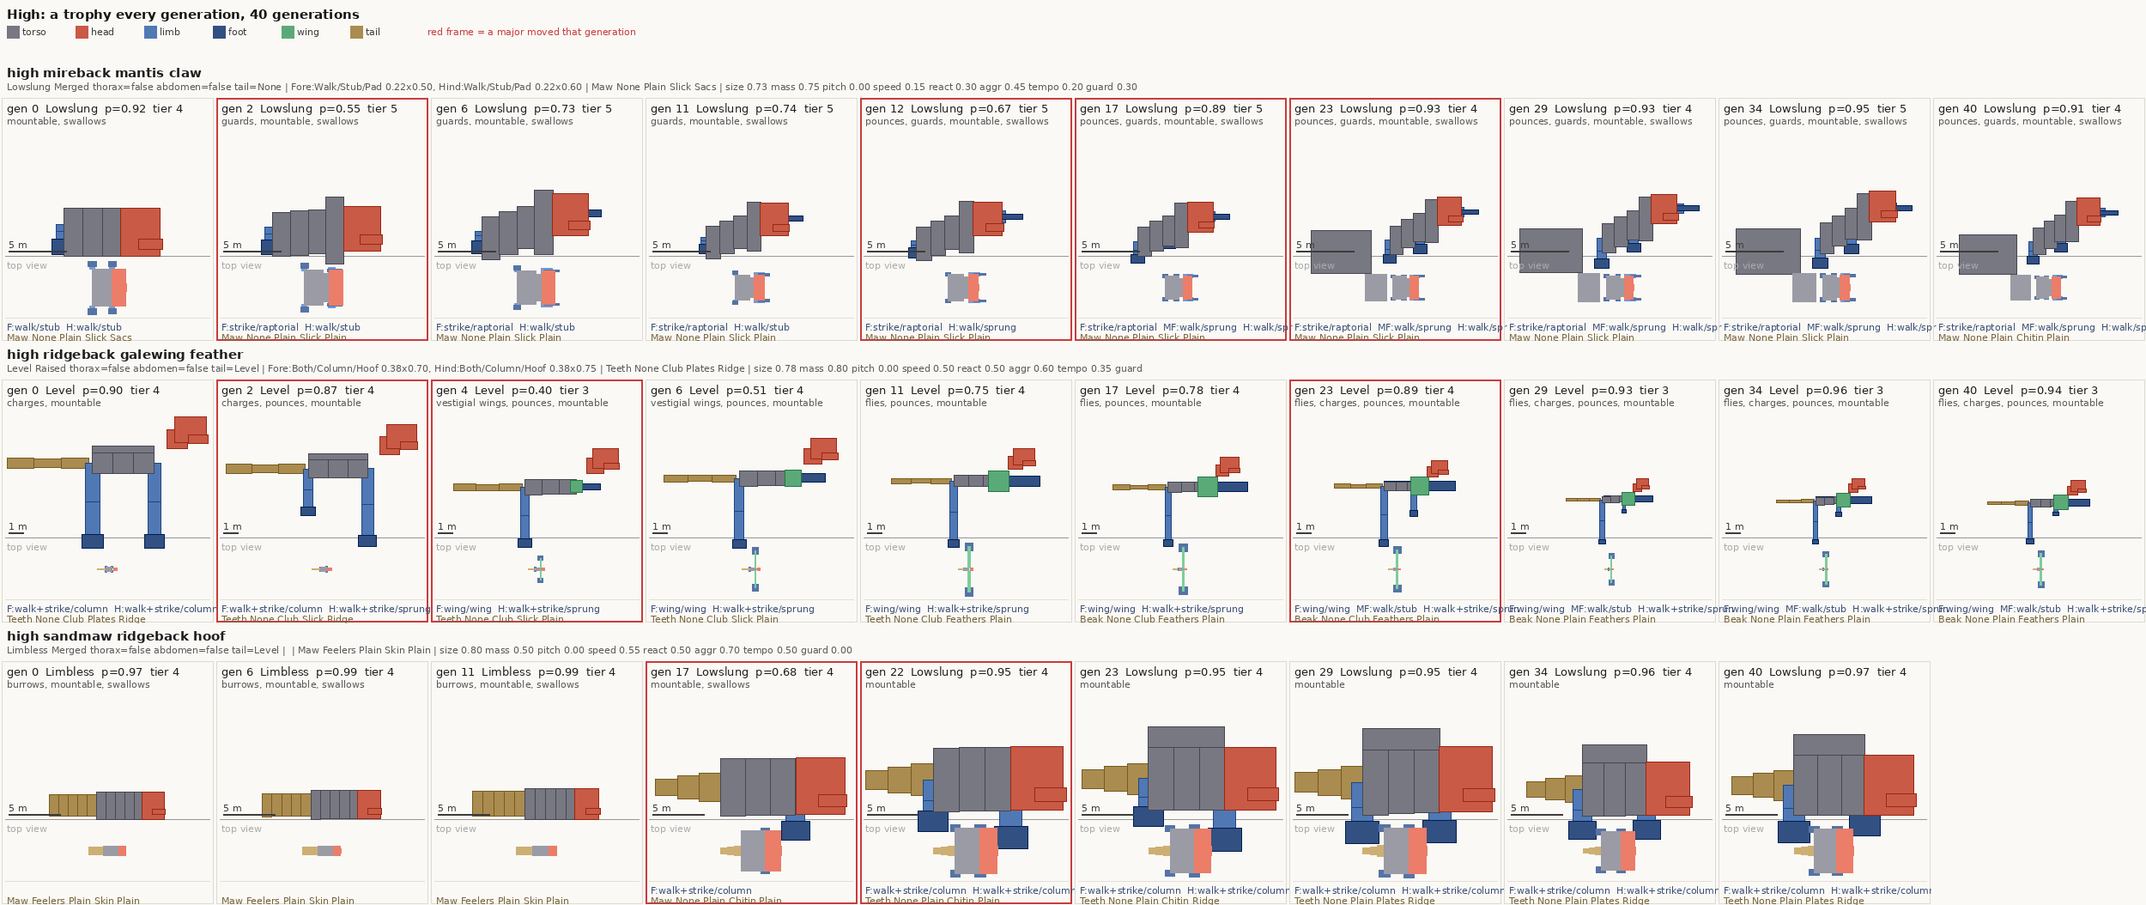
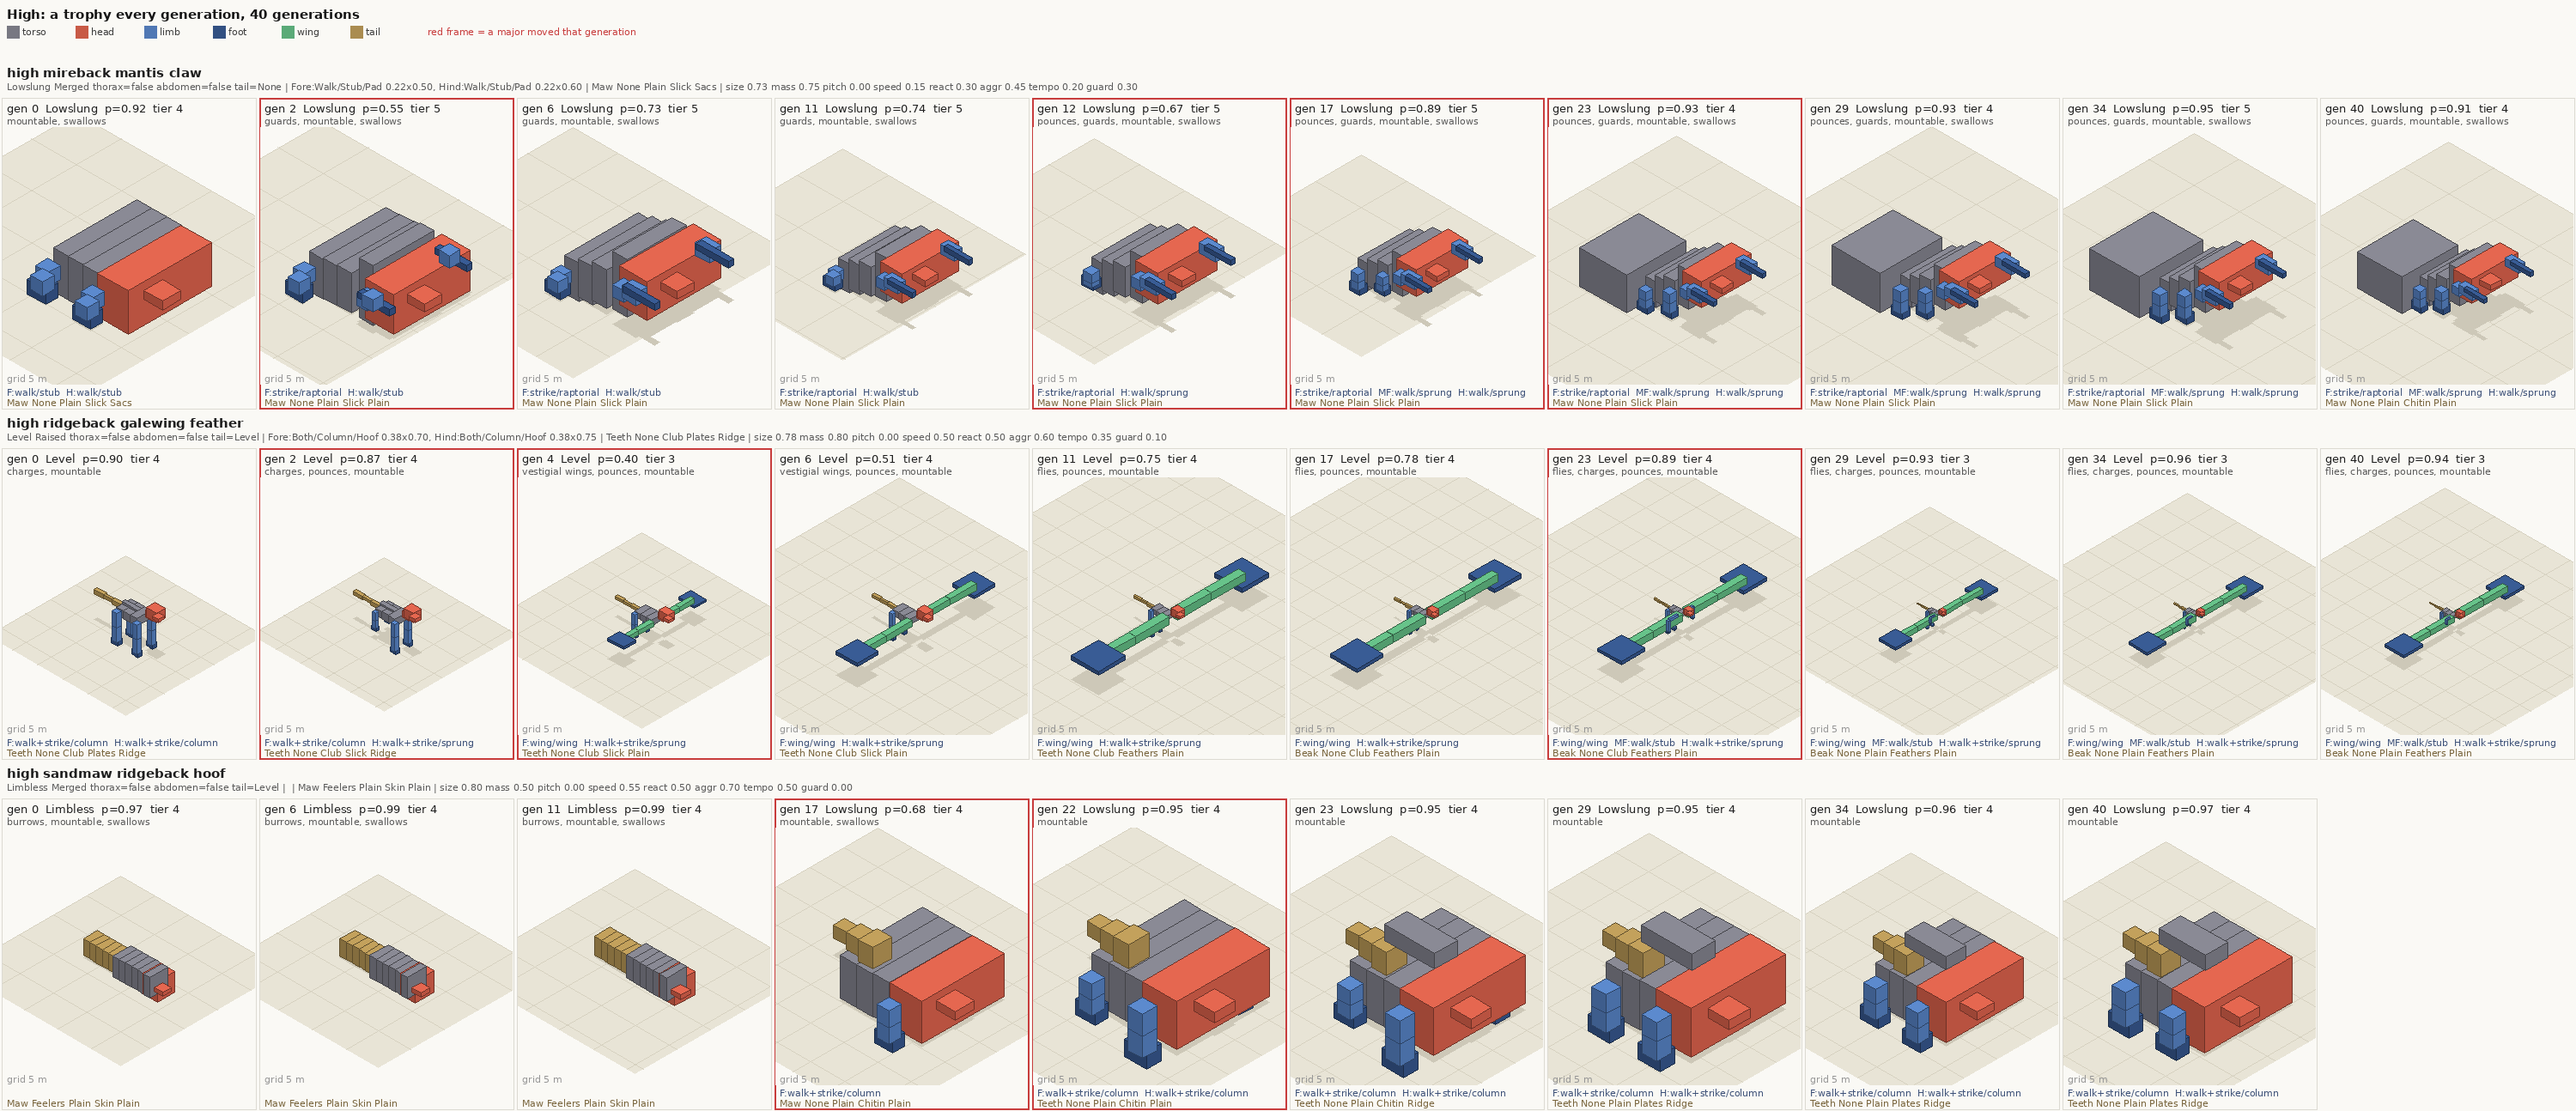
Crossbreeding: the lineage sheets drawn isometric on a gridded ground
Claude-Session: https://claude.ai/code/session_01HFM282c4MbNjdSA4zJH22S

diff --git a/scripts/breed-sheet.py b/scripts/breed-sheet.py
@@ -4,7 +4,7 @@
     python3 scripts/breed-sheet.py <dir with lines/>
 
 One row per lineage, the generations across (always the ones where a major
-moved), each body in side view and top view at one scale down the row. The
+moved), each body isometric on a gridded ground, one scale down the row. The
 file name's first word (low, med, high) picks which sheet it goes on. The
 sheets in docs/design/gallery/breed/ were made this way."""
 import sys, os, glob
@@ -88,59 +88,117 @@ def short_limbs(limbs):
     return "  ".join(out)
 
 
-def draw_strip(name, gens, cell_w=250, side_h=150, top_h=70):
+import math
+C30 = math.cos(math.radians(30))
+S30 = math.sin(math.radians(30))
+
+
+def iso(x, y, z):
+    """World (x along the body, y up, z across) to the picture plane, metres."""
+    return (x - z) * C30, (x + z) * S30 - y
+
+
+def shade(col, k):
+    return tuple(max(0, min(255, int(c * k))) for c in col)
+
+
+def draw_box(d, box, col, origin, scale):
+    """A cuboid as its three visible faces: top, the +x end, the +z side."""
+    x0, y0, x1, y1, z0, z1 = box
+    ox, oy = origin
+
+    def P(x, y, z):
+        px, py = iso(x, y, z)
+        return (ox + px * scale, oy + py * scale)
+
+    top = [P(x0, y1, z0), P(x1, y1, z0), P(x1, y1, z1), P(x0, y1, z1)]
+    front = [P(x1, y0, z0), P(x1, y0, z1), P(x1, y1, z1), P(x1, y1, z0)]
+    side = [P(x0, y0, z1), P(x1, y0, z1), P(x1, y1, z1), P(x0, y1, z1)]
+    edge = shade(col, 0.55)
+    d.polygon(side, fill=shade(col, 0.78), outline=edge)
+    d.polygon(front, fill=shade(col, 0.92), outline=edge)
+    d.polygon(top, fill=shade(col, 1.15), outline=edge)
+
+
+def draw_ground(d, origin, scale, extent, step):
+    ox, oy = origin
+    lo = -extent
+    hi = extent
+
+    def P(x, z):
+        px, py = iso(x, 0, z)
+        return (ox + px * scale, oy + py * scale)
+
+    d.polygon([P(lo, lo), P(hi, lo), P(hi, hi), P(lo, hi)], fill=(232, 228, 214))
+    n = int((hi - lo) / step)
+    for i in range(n + 1):
+        v = lo + i * step
+        d.line([P(v, lo), P(v, hi)], fill=(214, 209, 192))
+        d.line([P(lo, v), P(hi, v)], fill=(214, 209, 192))
+
+
+def draw_strip(name, gens, cell_w=300, cell_h=300):
     frames, moved = pick_frames(gens)
-    xs = [x for i in frames for (_, _, x0, _, x1, _, _, _) in gens[i]["parts"] for x in (x0, x1)]
-    span = max(xs) - min(xs)
-    tallest = max(y1 for i in frames for (_, _, _, _, _, y1, _, _) in gens[i]["parts"])
-    widest = max(z1 - z0 for i in frames for (_, _, _, _, _, _, z0, z1) in gens[i]["parts"])
-    zspan = max(max(z1 for (_, _, _, _, _, _, _, z1) in gens[i]["parts"]) -
-                min(z0 for (_, _, _, _, _, _, z0, _) in gens[i]["parts"]) for i in frames)
-    scale = min((cell_w - 16) / max(span, 1.0), (side_h - 8) / max(tallest, 1.0))
-    tscale = min(scale, (top_h - 8) / max(zspan, 1.0))
+    # One scale for the row, from the largest picture any frame makes.
+    biggest = 1.0
+    for i in frames:
+        pts = []
+        for (_, _, x0, y0, x1, y1, z0, z1) in gens[i]["parts"]:
+            for x in (x0, x1):
+                for y in (0, y0, y1):
+                    for z in (z0, z1):
+                        pts.append(iso(x, y, z))
+        w = max(p[0] for p in pts) - min(p[0] for p in pts)
+        h = max(p[1] for p in pts) - min(p[1] for p in pts)
+        biggest = max(biggest, w, h)
+    scale = (min(cell_w, cell_h) - 70) / biggest
+    row_extent = max(max(x1 for (_, _, _, _, x1, _, _, _) in gens[i]["parts"]) -
+                     min(x0 for (_, _, x0, _, _, _, _, _) in gens[i]["parts"]) for i in frames)
+    step = 5.0 if row_extent > 12 else 1.0
     head_h = 34
     foot_h = 30
-    cell_h = head_h + side_h + top_h + foot_h
+    total_h = head_h + cell_h + foot_h
     W = cell_w * len(frames)
-    H = cell_h + 44
+    H = total_h + 44
     im = Image.new("RGB", (W, H), BG)
     d = ImageDraw.Draw(im)
     d.text((8, 6), name.replace("_", " "), fill=(30, 30, 30), font=BOLD)
-    d.text((8, 24), gens[0]["desc"][:230], fill=(90, 90, 90), font=SMALL)
-    order = {"tail": 0, "limb": 1, "foot": 1, "torso": 2, "wing": 3, "head": 4}
+    d.text((8, 24), gens[0]["desc"][:260], fill=(90, 90, 90), font=SMALL)
     for k, i in enumerate(frames):
         g = gens[i]
         ox = k * cell_w
         top = 44
-        ground = top + head_h + side_h
-        tmid = ground + top_h / 2 + 2
         outline = (200, 60, 60) if g["n"] in moved else (220, 218, 210)
-        d.rectangle([ox + 2, top, ox + cell_w - 2, top + cell_h - 2], outline=outline, width=2 if g["n"] in moved else 1)
-        d.line([ox + 6, ground, ox + cell_w - 6, ground], fill=(150, 150, 150))
-        d.line([ox + 6, ground + top_h + 2, ox + cell_w - 6, ground + top_h + 2], fill=(225, 223, 215))
-        px = [x for (_, _, x0, _, x1, _, _, _) in g["parts"] for x in (x0, x1)]
-        cx = (min(px) + max(px)) / 2
-        parts = sorted(g["parts"], key=lambda p: order.get(p[0], 2))
-        for tag, pname, x0, y0, x1, y1, z0, z1 in parts:
-            col = COL.get(tag, (100, 100, 100))
-            edge = tuple(max(0, c - 50) for c in col)
-            X0 = ox + cell_w / 2 + (x0 - cx) * scale
-            X1 = ox + cell_w / 2 + (x1 - cx) * scale
-            d.rectangle([X0, ground - y1 * scale, X1, ground - y0 * scale], fill=col, outline=edge)
-        for tag, pname, x0, y0, x1, y1, z0, z1 in parts:
-            col = tuple(min(255, c + 35) for c in COL.get(tag, (100, 100, 100)))
-            X0 = ox + cell_w / 2 + (x0 - cx) * tscale
-            X1 = ox + cell_w / 2 + (x1 - cx) * tscale
-            d.rectangle([X0, tmid + z0 * tscale, X1, tmid + z1 * tscale], fill=col)
-        bar = 5.0 if span > 14 else 1.0
-        d.line([ox + 10, ground - 6, ox + 10 + bar * scale, ground - 6], fill=(60, 60, 60), width=2)
-        d.text((ox + 10, ground - 20), f"{bar:g} m", fill=(60, 60, 60), font=SMALL)
+        d.rectangle([ox + 2, top, ox + cell_w - 2, top + total_h - 2], outline=outline, width=2 if g["n"] in moved else 1)
+        # the picture: clip to the cell by drawing on a tile and pasting
+        tile = Image.new("RGB", (cell_w - 6, cell_h), BG)
+        td = ImageDraw.Draw(tile)
+        parts = g["parts"]
+        xs = [x for (_, _, x0, _, x1, _, _, _) in parts for x in (x0, x1)]
+        zs = [z for (_, _, _, _, _, _, z0, z1) in parts for z in (z0, z1)]
+        cx = (min(xs) + max(xs)) / 2
+        cz = (min(zs) + max(zs)) / 2
+        ys = max(y1 for (_, _, _, _, _, y1, _, _) in parts)
+        # centre the body's middle, half its height up, in the tile
+        mx, my = iso(cx, ys / 2, cz)
+        origin = (tile.width / 2 - mx * scale, cell_h / 2 - my * scale + 10)
+        extent = max(max(xs) - min(xs), max(zs) - min(zs)) * 0.9 + 2
+        draw_ground(td, (origin[0] - iso(cx, 0, cz)[0] * scale + iso(0, 0, 0)[0], origin[1] - iso(cx, 0, cz)[1] * scale), scale, extent, step)
+        # shadows: each box's footprint on the ground
+        for (_, _, x0, y0, x1, y1, z0, z1) in parts:
+            pts = [iso(x0, 0, z0), iso(x1, 0, z0), iso(x1, 0, z1), iso(x0, 0, z1)]
+            td.polygon([(origin[0] + px * scale, origin[1] + py * scale) for px, py in pts], fill=(205, 200, 184))
+        # the boxes, far to near
+        order = sorted(parts, key=lambda p: (p[2] + p[6] + p[3] * 0.5))
+        for tag, pname, x0, y0, x1, y1, z0, z1 in order:
+            draw_box(td, (x0, y0, x1, y1, z0, z1), COL.get(tag, (100, 100, 100)), origin, scale)
+        im.paste(tile, (ox + 3, top + head_h))
         d.text((ox + 8, top + 4), f"gen {g['n']}  {g['stance']}  p={g['plaus']:.2f}  tier {g['tier']}", fill=(30, 30, 30), font=FONT)
-        d.text((ox + 8, top + 20), g["caps"][:44], fill=(90, 90, 90), font=SMALL)
-        d.text((ox + 8, ground + 4), "top view", fill=(170, 170, 170), font=SMALL)
+        d.text((ox + 8, top + 20), g["caps"][:52], fill=(90, 90, 90), font=SMALL)
+        d.text((ox + 8, top + head_h + cell_h - 14), f"grid {step:g} m", fill=(150, 150, 150), font=SMALL)
         st, limbs, minors = majors(g["desc"])
-        d.text((ox + 8, ground + top_h + 6), short_limbs(limbs)[:46], fill=(60, 80, 120), font=SMALL)
-        d.text((ox + 8, ground + top_h + 18), minors[:46], fill=(120, 100, 60), font=SMALL)
+        d.text((ox + 8, top + head_h + cell_h + 2), short_limbs(limbs)[:56], fill=(60, 80, 120), font=SMALL)
+        d.text((ox + 8, top + head_h + cell_h + 14), minors[:56], fill=(120, 100, 60), font=SMALL)
     return im
 
 

diff --git a/crates/manual/src/lib.rs b/crates/manual/src/lib.rs
@@ -858,7 +858,7 @@ pub const SECTIONS: &[Section] = &[
             ),
             e(
                 "python3 scripts/breed-sheet.py <dir>",
-                "Draw the sheets in docs/design/gallery/breed/ from `breedcheck -- boxes` dumps in <dir>/lines/: one row per lineage, the generations across, each body in side and top view, a red frame where a major moved. Needs Pillow.",
+                "Draw the sheets in docs/design/gallery/breed/ from `breedcheck -- boxes` dumps in <dir>/lines/: one row per lineage, the generations across, each body isometric on a gridded ground, a red frame where a major moved. Needs Pillow.",
             ),
             e(
                 "cargo run -p sim --bin critcheck",

diff --git a/docs/design/gallery/README.md b/docs/design/gallery/README.md
@@ -70,4 +70,4 @@ The plan beside them is `cargo run -p look --example valley`.
 
 ## Crossbreeding lineages (`breed/`)
 
-Nine lineages from `sim::breed` ([exploration/0021](../exploration/0021_crossbreeding.md)), drawn by `scripts/breed-sheet.py`: `lineages_low.png` is drift alone (no trophies, 60 generations), `lineages_med.png` one trophy every four generations, `lineages_high.png` a trophy every generation. Each frame is the built body in side and top view, its limb plan and minors; a red frame is a generation a major moved.
+Nine lineages from `sim::breed` ([exploration/0021](../exploration/0021_crossbreeding.md)), drawn by `scripts/breed-sheet.py`: `lineages_low.png` is drift alone (no trophies, 60 generations), `lineages_med.png` one trophy every four generations, `lineages_high.png` a trophy every generation. Each frame is the built body isometric on a gridded ground, its limb plan and minors; a red frame is a generation a major moved.
